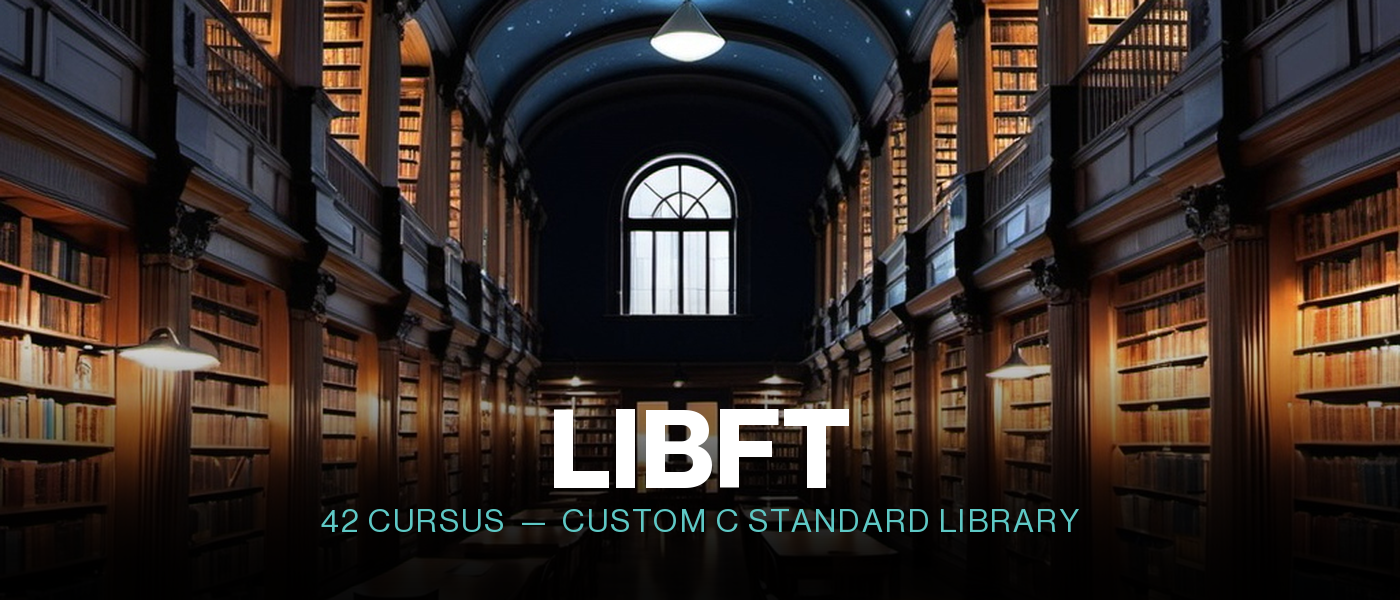
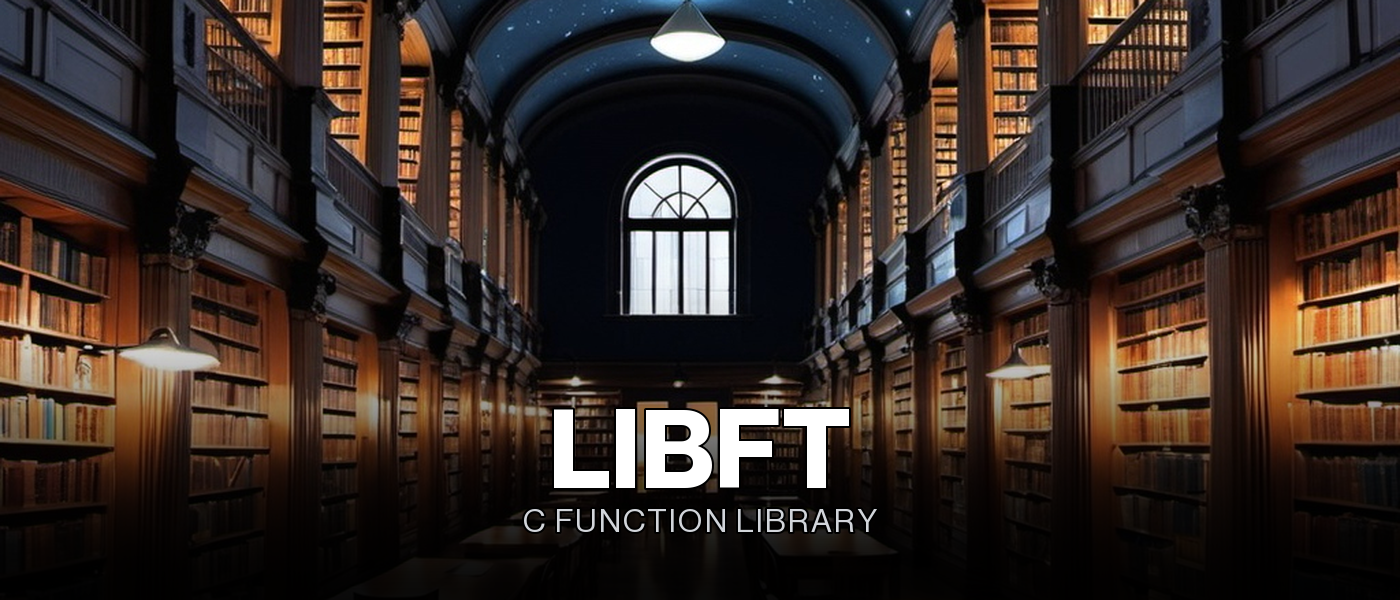
readme

Changed region(s): [[0.215, 0.84, 0.7679, 0.9], [0.5529, 0.66, 0.6143, 0.72], [0.4914, 0.72, 0.5529, 0.75]]

diff --git a/README.md b/README.md
@@ -13,13 +13,13 @@
   </p>
 
   <p>
-    <a href="#overview"><img src="https://img.shields.io/badge/-Overview-2b3137?style=flat-square" alt="Overview" /></a>
-    <a href="#highlights"><img src="https://img.shields.io/badge/-Highlights-2b3137?style=flat-square" alt="Highlights" /></a>
-    <a href="#build--usage"><img src="https://img.shields.io/badge/-Build%20%26%20Usage-2b3137?style=flat-square" alt="Build & Usage" /></a>
-    <a href="#design-notes"><img src="https://img.shields.io/badge/-Design%20Notes-2b3137?style=flat-square" alt="Design Notes" /></a>
-    <a href="#library-structure"><img src="https://img.shields.io/badge/-Library%20Structure-2b3137?style=flat-square" alt="Library Structure" /></a>
-    <a href="#function-reference"><img src="https://img.shields.io/badge/-Function%20Reference-2b3137?style=flat-square" alt="Function Reference" /></a>
-    <a href="#result"><img src="https://img.shields.io/badge/-Result-2b3137?style=flat-square" alt="Result" /></a>
+    <img src="https://img.shields.io/badge/-Overview-2b3137?style=flat-square" alt="Overview" />
+    <img src="https://img.shields.io/badge/-Highlights-2b3137?style=flat-square" alt="Highlights" />
+    <img src="https://img.shields.io/badge/-Build%20%26%20Usage-2b3137?style=flat-square" alt="Build & Usage" />
+    <img src="https://img.shields.io/badge/-Design%20Notes-2b3137?style=flat-square" alt="Design Notes" />
+    <img src="https://img.shields.io/badge/-Library%20Structure-2b3137?style=flat-square" alt="Library Structure" />
+    <img src="https://img.shields.io/badge/-Function%20Reference-2b3137?style=flat-square" alt="Function Reference" />
+    <img src="https://img.shields.io/badge/-Result-2b3137?style=flat-square" alt="Result" />
   </p>
 </div>
 
@@ -89,8 +89,8 @@ cc main.c -Ipath/to/libft -Lpath/to/libft -lft -o program
 > [!TIP]
 > **Overlap safety in `ft_memmove`.** `ft_memcpy` assumes non-overlapping regions (as the standard allows); `ft_memmove` has to detect overlap and copy in the right direction to stay correct, reasoning about memory layout rather than just "copying bytes."
 
-> [!NOTE]
-> **BSD-style return values.** `ft_strlcpy`/`ft_strlcat` return the length they *would have needed*, not the length they wrote. This mirrors the real `strlcpy`/`strlcat` contract so truncation can be detected by the caller.
+> [!WARNING]
+> **BSD-style return values.** `ft_strlcpy`/`ft_strlcat` return the length they *would have needed*, not the length they wrote. Treat the return value as the actual copied length and you'll read past the buffer; this mirrors the real `strlcpy`/`strlcat` contract so truncation can be detected by the caller.
 
 <img src=".assets/divider.png" width="100%" alt="" />
 
